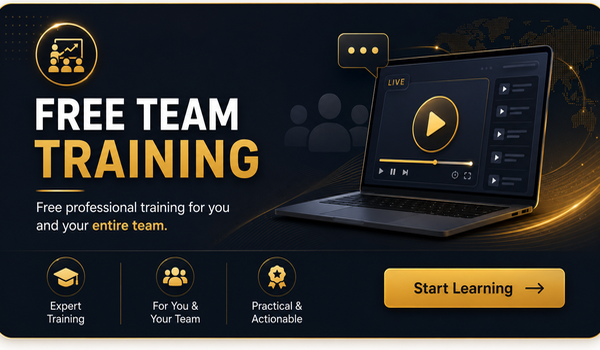
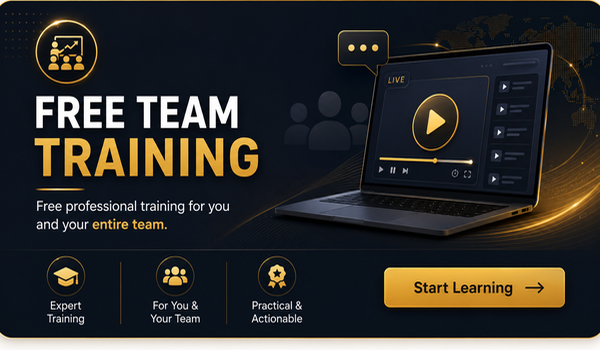
Add files via upload

diff --git a/landing.html b/landing.html
@@ -1271,6 +1271,81 @@ body.dark-theme .broker-logo-card{
   .broker-logo-card picture,.broker-logo-card picture img{aspect-ratio:3/1 !important;}
 }
 
+
+/* Our Services banner cards */
+.services-banner-section{padding:34px 0 38px!important}
+.services-banner-grid{display:grid;grid-template-columns:repeat(3,minmax(0,1fr));gap:20px;align-items:start!important}
+.service-banner-card{display:block;width:100%;border:1px solid rgba(218,126,0,.55);border-radius:22px;overflow:hidden;background:#fff;box-shadow:0 14px 34px rgba(55,35,5,.10);transition:transform .22s ease,box-shadow .22s ease}
+.service-banner-card:hover{transform:translateY(-5px);box-shadow:0 22px 44px rgba(55,35,5,.16)}
+.service-banner-card img{display:block;width:100%!important;height:auto!important;object-fit:contain!important;object-position:center!important;transform:none!important;border-radius:0!important}
+body.dark-theme .service-banner-card{background:#07101f;border-color:rgba(246,165,28,.65);box-shadow:0 16px 38px rgba(0,0,0,.35)}
+@media(max-width:900px){.services-banner-grid{grid-template-columns:1fr}.service-banner-card{max-width:620px;width:100%;margin:auto}}
+
+
+
+/* FINAL PARTNER BANNER ALIGNMENT FIX */
+.partner-promo-grid{
+  align-items:stretch!important;
+}
+.partner-promo-item{
+  min-width:0!important;
+  display:block!important;
+}
+.partner-promo-card.visual-promo-card{
+  width:100%!important;
+  aspect-ratio:12/7!important;
+  padding:0!important;
+  overflow:hidden!important;
+  border-radius:22px!important;
+  background:transparent!important;
+}
+.partner-promo-card.visual-promo-card picture{
+  display:block!important;
+  width:100%!important;
+  height:100%!important;
+  padding:0!important;
+  margin:0!important;
+  overflow:hidden!important;
+  border-radius:21px!important;
+  background:transparent!important;
+}
+.partner-promo-card.visual-promo-card img,
+body:not(.dark-theme) .partner-promo-card.visual-promo-card img,
+body.dark-theme .partner-promo-card.visual-promo-card img,
+.partner-promo-item:nth-child(1) .partner-promo-card.visual-promo-card img,
+.partner-promo-item:nth-child(2) .partner-promo-card.visual-promo-card img,
+.partner-promo-item:nth-child(3) .partner-promo-card.visual-promo-card img{
+  display:block!important;
+  width:100%!important;
+  height:100%!important;
+  object-fit:fill!important;
+  object-position:center center!important;
+  transform:none!important;
+  transform-origin:center!important;
+  clip-path:none!important;
+  border-radius:20px!important;
+  margin:0!important;
+  padding:0!important;
+}
+
+/* final micro-fixes for partner cards */
+body.dark-theme .partner-promo-item:nth-child(2) .partner-promo-card.visual-promo-card picture{
+  background:#07101f!important;
+}
+body.dark-theme .partner-promo-item:nth-child(2) .partner-promo-card.visual-promo-card img{
+  height:calc(100% + 6px)!important;
+  margin:0 0 -6px 0!important;
+  object-position:center top!important;
+}
+body:not(.dark-theme) .partner-promo-item:nth-child(3) .partner-promo-card.visual-promo-card picture{
+  background:#fffaf3!important;
+}
+body:not(.dark-theme) .partner-promo-item:nth-child(3) .partner-promo-card.visual-promo-card img{
+  width:calc(100% - 8px)!important;
+  margin-left:8px!important;
+  object-position:center center!important;
+}
+
 </style>
 <script src="https://cdn.jsdelivr.net/npm/@supabase/supabase-js@2"></script>
 </head>
@@ -1367,32 +1442,23 @@ body.dark-theme .broker-logo-card{
     </div>
   </section>
 
-  <section class="section services-premium" id="services">
+  <section class="section services-premium services-banner-section" id="services">
     <div class="container">
       <div class="section-heading services-heading">
         <div class="small">WHAT WE OFFER</div>
         <h2>Our Services</h2>
         <p>Everything you need to learn, analyze and grow with a structured trading ecosystem.</p>
       </div>
-      <div class="services-premium-grid">
-        <article class="service-premium-card service-signals">
-          <div class="service-number">01</div><div class="service-premium-icon" aria-hidden="true"><svg viewBox="0 0 24 24"><path d="M4 18.5a2.5 2.5 0 1 0 0 .01M4 13a8 8 0 0 1 8 8M4 7a14 14 0 0 1 14 14M17 3l4 4-4 4M21 7h-9"/></svg></div>
-          <h3>Live Trading Signals</h3><p>Receive structured market setups with clear levels, risk guidance and educational context.</p>
-          <ul><li>Real-time updates</li><li>Clear analysis</li><li>Risk-focused approach</li></ul>
-          <button onclick="openAuth()">Explore Signals <span>→</span></button>
-        </article>
-        <article class="service-premium-card service-learning" id="courses">
-          <div class="service-number">02</div><div class="service-premium-icon" aria-hidden="true"><svg viewBox="0 0 24 24"><path d="m3 8 9-5 9 5-9 5-9-5Zm4 3v5c3 2 7 2 10 0v-5M21 8v6"/></svg></div>
-          <h3>Forex Education</h3><p>Build strong trading foundations through practical courses, mentorship and step-by-step learning.</p>
-          <ul><li>Beginner to advanced</li><li>Practical strategies</li><li>Mentor guidance</li></ul>
-          <button onclick="openAuth()">View Courses <span>→</span></button>
-        </article>
-        <article class="service-premium-card service-tools" id="tools">
-          <div class="service-number">03</div><div class="service-premium-icon" aria-hidden="true"><svg viewBox="0 0 24 24"><path d="M12 15.5a3.5 3.5 0 1 0 0-7 3.5 3.5 0 0 0 0 7Z"/><path d="M19.4 15a1.7 1.7 0 0 0 .34 1.88l.06.06-2.83 2.83-.06-.06A1.7 1.7 0 0 0 15 19.4a1.7 1.7 0 0 0-1 .6 1.7 1.7 0 0 0-.4 1.1V21h-4v-.1A1.7 1.7 0 0 0 8.6 19.4a1.7 1.7 0 0 0-1.88.34l-.06.06-2.83-2.83.06-.06A1.7 1.7 0 0 0 4.6 15a1.7 1.7 0 0 0-.6-1 1.7 1.7 0 0 0-1.1-.4H3v-4h.1A1.7 1.7 0 0 0 4.6 8.6a1.7 1.7 0 0 0-.34-1.88l-.06-.06 2.83-2.83.06.06A1.7 1.7 0 0 0 9 4.6a1.7 1.7 0 0 0 1-.6 1.7 1.7 0 0 0 .4-1.1V3h4v.1A1.7 1.7 0 0 0 15.4 4.6a1.7 1.7 0 0 0 1.88-.34l.06-.06 2.83 2.83-.06.06A1.7 1.7 0 0 0 19.4 9c.2.36.5.7.9.9.3.2.7.3 1.1.3h.1v4h-.1c-.4 0-.8.1-1.1.3-.4.2-.7.5-.9.9Z"/></svg></div>
-          <h3>Trading Tools</h3><p>Access helpful calculators, market resources and intelligent tools designed for better decisions.</p>
-          <ul><li>Market resources</li><li>Smart calculators</li><li>Trading support</li></ul>
-          <button onclick="openAuth()">Explore Tools <span>→</span></button>
-        </article>
+      <div class="services-banner-grid">
+        <a class="service-banner-card" href="#" onclick="openAuth();return false" aria-label="Explore Forex Education">
+          <img class="theme-card-image" src="service-banners/forex-education-light.jpg" data-light="service-banners/forex-education-light.jpg" data-dark="service-banners/forex-education-dark.jpg" alt="Forex Education">
+        </a>
+        <a class="service-banner-card" href="#" onclick="openAuth();return false" aria-label="Explore Trading Signals">
+          <img class="theme-card-image" src="service-banners/trading-signals-light.jpg" data-light="service-banners/trading-signals-light.jpg" data-dark="service-banners/trading-signals-dark.jpg" alt="Premium Trading Signals">
+        </a>
+        <a class="service-banner-card" href="#" onclick="openAuth();return false" aria-label="Explore Trading Tools">
+          <img class="theme-card-image" src="service-banners/trading-tools-light.jpg" data-light="service-banners/trading-tools-light.jpg" data-dark="service-banners/trading-tools-dark.jpg" alt="Trading Tools">
+        </a>
       </div>
     </div>
   </section>